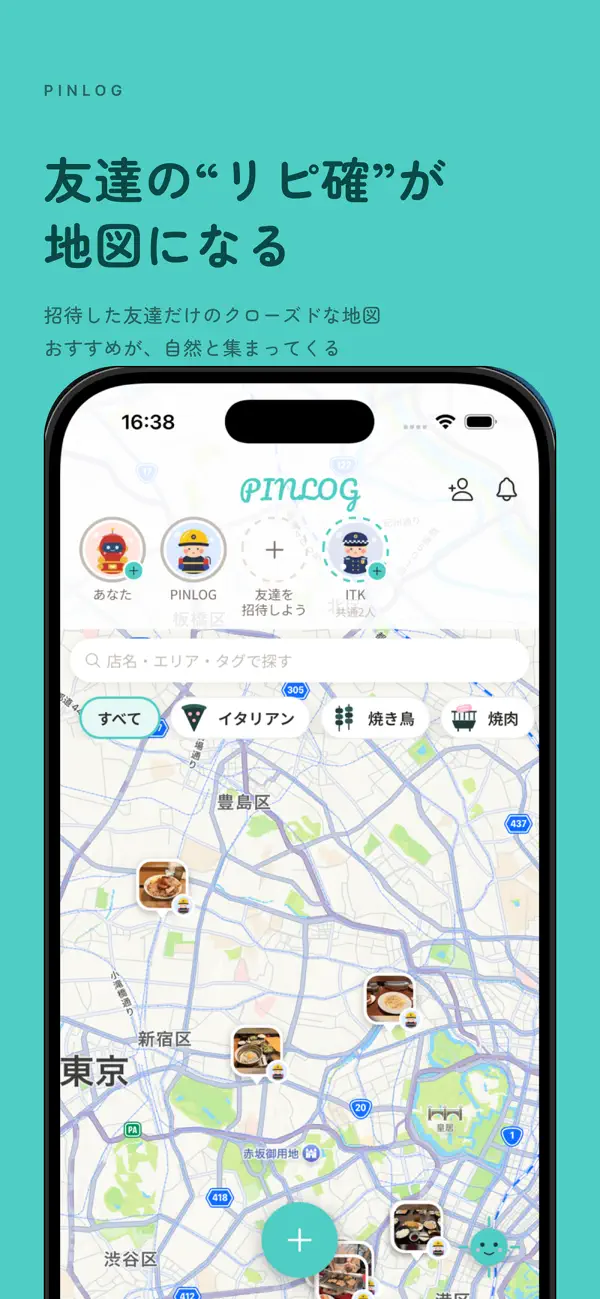
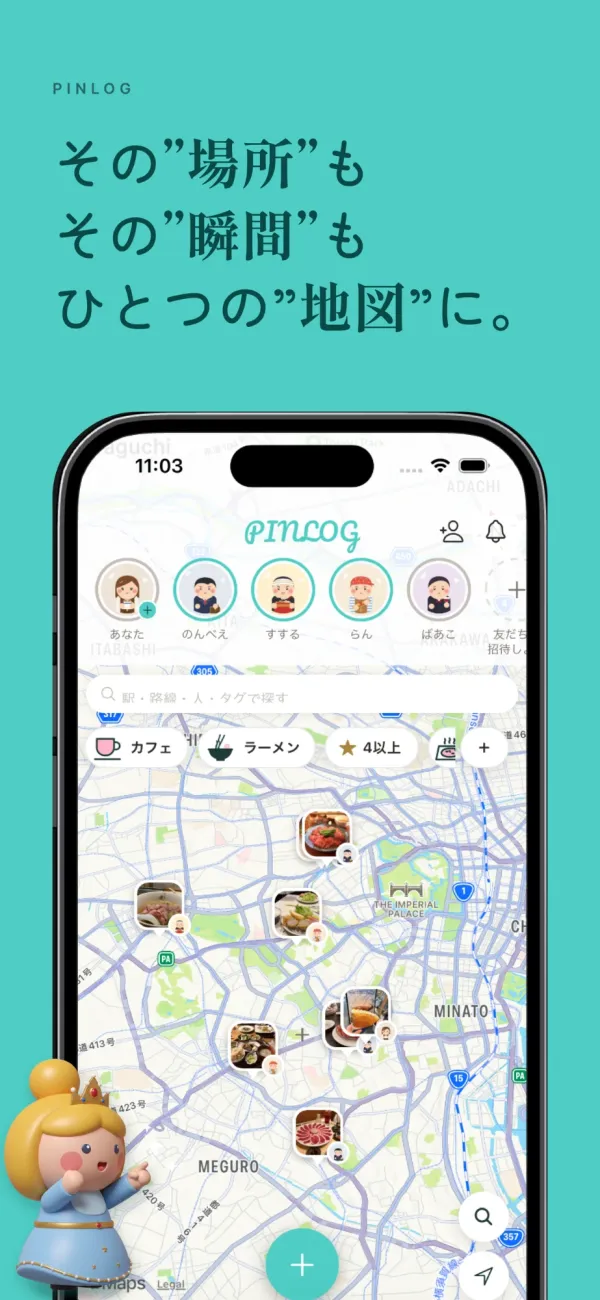
feat: トップのスクショを App Store の最新6枚に差し替える
古い4枚（リピ確・口コミ・趣味嗜好・地図アプリ）を消し、今の App Store のスクショ6枚
（地図・チェキ・タグ・★5・カレンダー・締め）を 600×1300 の webp で置く。
PC では6枚を1列に並べられるよう、幅を min(14vw, 190px) に縮める。

diff --git a/index.html b/index.html
@@ -60,7 +60,7 @@
   h1 .nowrap { white-space: nowrap; }
   .lead { margin: 12px 16px 0; text-align: center; color: var(--muted); font-size: 15px; }
 
-  /* スクショ: スマホでは横に送る。PC では4枚を並べる */
+  /* スクショ: スマホでは横に送る。PC では6枚を1列に並べる（幅が足りなければ縮める） */
   .shots {
     width: 100%; margin-top: 28px; padding: 4px 16px 12px;
     display: flex; gap: 14px; overflow-x: auto; scroll-snap-type: x mandatory;
@@ -89,7 +89,7 @@
   @media (min-width: 900px) {
     main { padding-top: 72px; }
     .shots { justify-content: center; overflow-x: visible; }
-    .shots img { width: 210px; }
+    .shots img { width: min(14vw, 190px); }
     .hint { display: none; }
     .qr { display: block; }
   }
@@ -117,10 +117,12 @@
   </div>
 
   <div class="shots" aria-label="アプリの画面">
-    <img src="img/screen-1-map.webp" width="600" height="1300" alt="友達の“リピ確”が地図になる。招待した友達だけのクローズドな地図">
-    <img src="img/screen-2-kuchikomi.webp" width="600" height="1300" alt="“知らない口コミ”より“あの人の口コミ”" loading="lazy">
-    <img src="img/screen-3-shumi.webp" width="600" height="1300" alt="趣味嗜好が近い人がわかる" loading="lazy">
-    <img src="img/screen-4-mapapp.webp" width="600" height="1300" alt="お馴染みの地図アプリで開ける" loading="lazy">
+    <img src="img/screen-1-map.webp" width="600" height="1300" alt="その“場所”も その“瞬間”も ひとつの“地図”に。">
+    <img src="img/screen-2-cheki.webp" width="600" height="1300" alt="行った場所がかわいい“チェキ”に。" loading="lazy">
+    <img src="img/screen-3-tags.webp" width="600" height="1300" alt="おすすめの店も“豊富なタグ”ですぐ見つかる。" loading="lazy">
+    <img src="img/screen-4-hoshi5.webp" width="600" height="1300" alt="知らない人の「★5」より友達の「★5」" loading="lazy">
+    <img src="img/screen-5-calendar.webp" width="600" height="1300" alt="これまでの投稿がいつか見返したい“思い出”に。" loading="lazy">
+    <img src="img/screen-6-closing.webp" width="600" height="1300" alt="“お気に入りの場所”も“忘れたくない瞬間”も PINLOG" loading="lazy">
   </div>
   <p class="hint">← 横にスワイプ →</p>
 
